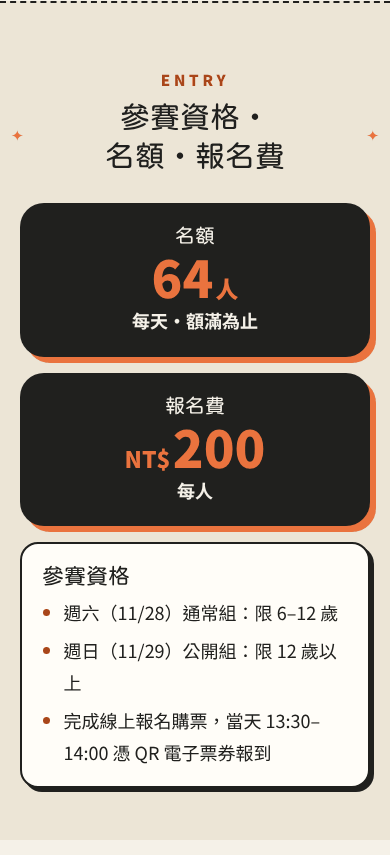
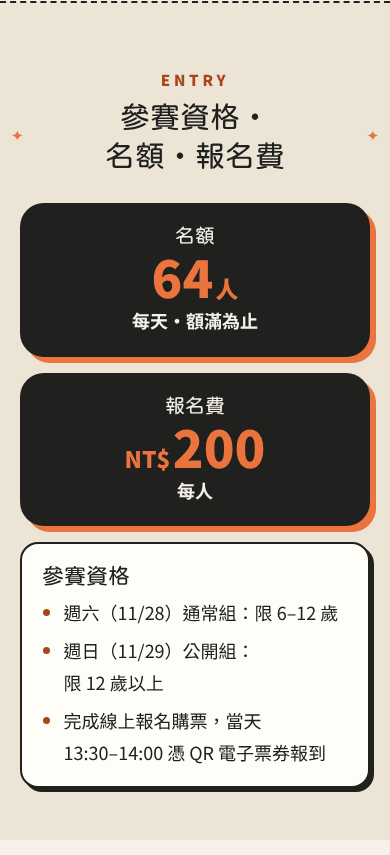
修正 /cup/ 手機版年齡斷行：「限 12 歲以上」「限 6–12 歲」不拆開
- 參賽資格、每月賽事說明、FAQ 中的年齡字樣包 .nobr（連同「限」字）
- 報到時間 13:30–14:00 也不拆開
- 兩天組別卡片的年齡小字加 white-space: nowrap
- 文字不變，桌機版不變；更新 cup-entry-mobile.png

Claude-Session: https://claude.ai/code/session_012dQHuckgmktwtxDEBvdD1o

diff --git a/cup/index.html b/cup/index.html
@@ -165,9 +165,9 @@
           <article class="rule-card cup-entry-card">
             <h3>參賽資格</h3>
             <ul>
-              <li>週六（11/28）通常組：限 6–12 歲</li>
-              <li>週日（11/29）公開組：限 12 歲以上</li>
-              <li>完成線上報名購票，當天 13:30–14:00 憑 QR 電子票券報到</li>
+              <li>週六（11/28）通常組：<span class="nobr">限 6–12 歲</span></li>
+              <li>週日（11/29）公開組：<span class="nobr">限 12 歲以上</span></li>
+              <li>完成線上報名購票，當天 <span class="nobr">13:30–14:00</span> 憑 QR 電子票券報到</li>
             </ul>
           </article>
         </div>
@@ -246,7 +246,7 @@
               <li><span class="cup-monthly-name">G3 公開賽</span><span class="cup-monthly-count">每個週末 <strong>2</strong> 場</span><span class="cup-monthly-detail">週六通常組、週日公開組，<span class="nobr">各 64 人，NT$200</span></span></li>
               <li><span class="cup-monthly-name">G2 地區賽</span><span class="cup-monthly-count">每月 <strong>1</strong> 個週末</span><span class="cup-monthly-detail">週六通常組、週日公開組，<span class="nobr">各 128 人，NT$300</span></span></li>
             </ul>
-            <p class="cup-monthly-note">通常組限 6–12 歲、公開組限 12 歲以上（G3、G2 相同）。G2 週末不辦 G3。以上皆為官方認證賽事。每月賽程確認後，我們會一次公布並開放當月所有場次報名，可以一次報名多場，方便玩家提前安排。如遇場地活動需要調整，將提前公告延期日期。</p>
+            <p class="cup-monthly-note">通常組<span class="nobr">限 6–12 歲</span>、公開組<span class="nobr">限 12 歲以上</span>（G3、G2 相同）。G2 週末不辦 G3。以上皆為官方認證賽事。每月賽程確認後，我們會一次公布並開放當月所有場次報名，可以一次報名多場，方便玩家提前安排。如遇場地活動需要調整，將提前公告延期日期。</p>
           </article>
           <article class="cup-card cup-practice">
             <img class="cup-card-cat" src="../assets/cup/cat-challenge.webp" alt="攤玩貓拿著戰鬥陀螺，等著交流對戰" width="800" height="800" loading="lazy">
@@ -283,7 +283,7 @@
           </details>
           <details class="faq">
             <summary>多久舉辦一次比賽？</summary>
-            <div class="faq-body"><p>每個週末都有比賽：週六通常組、週日公開組各 1 場 G3 公開賽；每月有 1 個週末改辦 G2 地區賽（週六通常組、週日公開組各 1 場），G2 週末不辦 G3。通常組限 6–12 歲、公開組限 12 歲以上。當月賽程確認後會一次開放報名，可以一次報名多場。請追蹤 LINE 官方帳號 <a href="https://line.me/R/ti/p/@238nrzdb" target="_blank" rel="noopener">@238nrzdb<span class="sr-only">（另開新分頁）</span></a> 取得最新公告。</p></div>
+            <div class="faq-body"><p>每個週末都有比賽：週六通常組、週日公開組各 1 場 G3 公開賽；每月有 1 個週末改辦 G2 地區賽（週六通常組、週日公開組各 1 場），G2 週末不辦 G3。通常組<span class="nobr">限 6–12 歲</span>、公開組<span class="nobr">限 12 歲以上</span>。當月賽程確認後會一次開放報名，可以一次報名多場。請追蹤 LINE 官方帳號 <a href="https://line.me/R/ti/p/@238nrzdb" target="_blank" rel="noopener">@238nrzdb<span class="sr-only">（另開新分頁）</span></a> 取得最新公告。</p></div>
           </details>
           <details class="faq">
             <summary>沒有比賽的時候可以去練習嗎？</summary>

diff --git a/cup/cup.css b/cup/cup.css
@@ -256,7 +256,7 @@
 }
 .cup-day-date { font-weight: 900; }
 .cup-day-group { font-family: var(--font-fun); font-size: 1.25rem; color: var(--orange); }
-.cup-day-group small { display: block; font-family: var(--font-body); font-size: .9375rem; font-weight: 700; color: var(--paper); }
+.cup-day-group small { display: block; white-space: nowrap; font-family: var(--font-body); font-size: .9375rem; font-weight: 700; color: var(--paper); }
 .cup-monthly-detail { margin-top: 4px; font-size: .9375rem; line-height: 1.5; }
 @media (max-width: 639px) {
   .cup-monthly-types { grid-template-columns: 1fr; }
